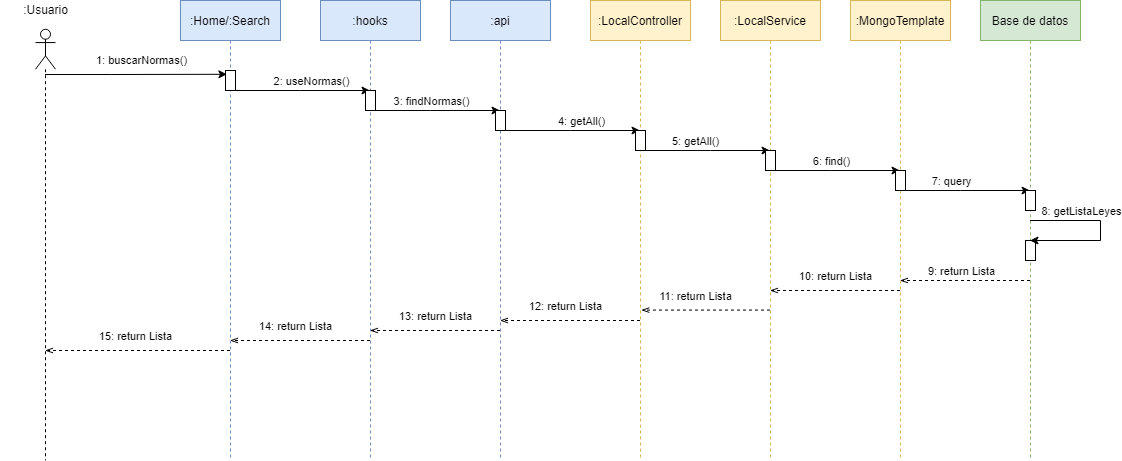
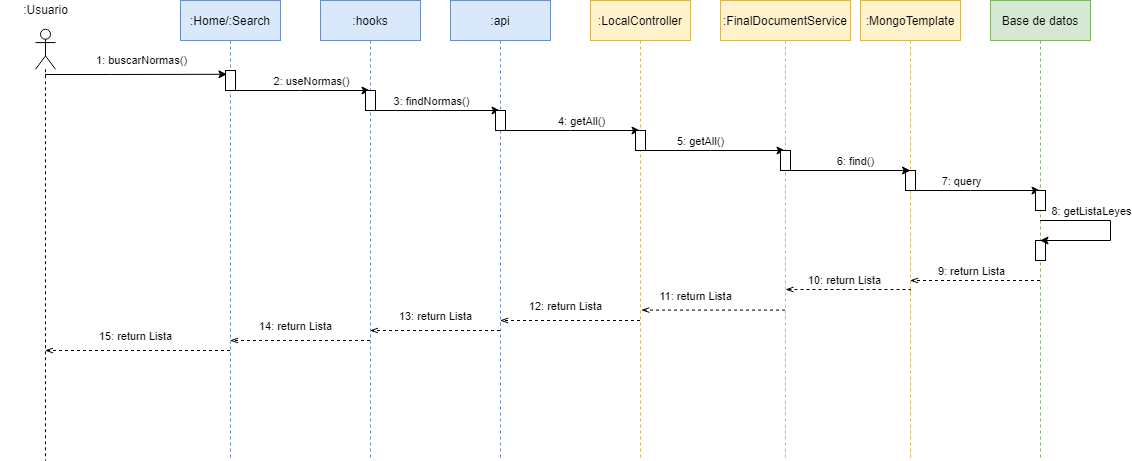
Update document

diff --git a/Documentos ETSE/Memoria TFG/capitulos/3-diseño/4-secuencia/3-editar.tex b/Documentos ETSE/Memoria TFG/capitulos/3-diseño/4-secuencia/3-editar.tex
@@ -3,7 +3,31 @@
 La principal funcionalidad de esta aplicación es la de editar una ley de lex.gal. En esta, un usuario estará visualizando una ley de lex.gal, y procederá a editar sus datos, así como la de las leyes vinculadas. Una vez se ha realizado la edición, el usuario ha de guardar sus cambios, y estos han de ser almacenados en la base de datos.
 
 \begin{figure}[H]
-\centerline{\includegraphics[width=15cm]{figuras/diseño/RegistroUsuario.png}}
+\centerline{\includegraphics[width=14cm]{figuras/diseño/EditarLey.png}}
 \caption{Diagrama de secuencia 03. Editar una ley de lex.gal.}
 \label{enlaceDEditar}
 \end{figure}
+
+\begin{enumerate}
+    \item El usuario pincha entra en la página de edición de una ley, la cual se debe de buscar el método que invoca al hook.
+    \item Este método invoca al hook useFinalDocument() del archivo contenido en hooks().
+    \item Se invoca al método findFinalDocument() de la carpeta api.
+    \item Se hace un llamamiento mediante una solicitud HTTP al servidor. En concreto, la función get() de LocalController, pues se hace un GET.
+    \item Se invoca al servicio get() de FinalDocumentService.
+    \item Se invoca la operación getBySumario() del repositorio FinalDocumentRepository, pues se busca según el sumario.
+    \item Se invoca la operación de recuperar en la base de datos de MongoDB.
+    \item Se recupera la leyes encontrada en la base de datos.
+    \item Se procede a devolver la respuesta al usuario desde este paso, realizando el proceso inverso. El usuario recibirá las ley correspondiente. Se realiza este proceso {\bf hasta la operación 15}.
+    \item El usuario propone cambios que se almacenan en el store de React.
+    \item El usuario añade anotaciones que se almacenan en el store de React.
+    \item El usuario propone cambios en leyes vinculadas que se almacenan en el store de React.
+    \item El usuario guarda los cambios. En función de si valida y publica, o guarda como borrador, tendrá un estado u otro.
+    \item Este método invoca al método put() del hook useFinalDocument().
+    \item Se invoca al método updateFinalDocument() de la carpeta api.
+    \item Se hace un llamamiento mediante una solicitud HTTP al servidor. En concreto, la función put() de LocalController, pues se hace un PUT.
+    \item Se invoca al servicio save() de FinalDocumentService.
+    \item Se invoca la operación save() del repositorio FinalDocumentRepository, para poder modificar una ley.
+    \item Se invoca la operación de modificación en la base de datos de MongoDB.
+    \item Se modifica la ley correspondiente en la base de datos.
+    \item Se procede a devolver la respuesta al usuario desde este paso, realizando el proceso inverso. El usuario recibirá un mensaje de que la operación fue satisfactoria.
+\end{enumerate}

diff --git a/Documentos ETSE/Memoria TFG/capitulos/6-apendices/1-tecnicos/1-despliegue.tex b/Documentos ETSE/Memoria TFG/capitulos/6-apendices/1-tecnicos/1-despliegue.tex
@@ -33,7 +33,7 @@ En cuanto al despliegue de la parte del {\bf cliente}:
 \item Se abrirá una pestaña en su navegador predeterminado. Este proceso puede demorarse unos minutos. En caso de no abrirse automáticamente, puede acceder manualmente accediendo al puerto 3000, {\it \url{http://localhost:3000/}}.
 \end{enumerate}
 
-Por último, cabe indicar que por motivos de seguridad se ha de instalar un usuario a mano en la base de datos. Esto se debe a que en la aplicación solo se permite registrar usuarios cuando existe un administrador. Es por ello que se debe acceder a MongoDB, crear una nueva base de datos denominada ``tfg'', y la colección sea ``users''. Importamos el archivo {\it data.json}, que contiene el usuario inicial.
+Por último, cabe indicar que por motivos de seguridad se ha de introducir un usuario a mano en la base de datos. Esto se debe a que en la aplicación solo se permite registrar usuarios cuando existe un administrador. Es por ello que se debe acceder a MongoDB, crear una nueva base de datos denominada ``tfg'', y la colección sea ``users''. Importamos el archivo {\it data.json} (situado en el directorio raíz del proyecto), que contiene el usuario inicial.
 \\
 
 Cuando sea el caso de iniciar sesión por primera vez, habrá que acceder con el email {\it usuario@usuario.com} y la contraseña {\it Abc123..}.

diff --git a/Documentos ETSE/Memoria TFG/capitulos/3-diseño/4-secuencia/2-buscar.tex b/Documentos ETSE/Memoria TFG/capitulos/3-diseño/4-secuencia/2-buscar.tex
@@ -13,8 +13,8 @@ Se representa la operación de búsqueda de leyes en la base de datos de lex.gal
     \item Este método invoca al hook useNormas() del archivo contenido en hooks().
     \item Se invoca al método findNormas() de la carpeta api.
     \item Se hace un llamamiento mediante una solicitud HTTP al servidor. En concreto, la función getAll() de LocalController, pues se hace un GET.
-    \item Se invoca al servicio getAll() de UserService.
-    \item Se invoca la operación find del template MongoTemplate, pues se busca según un texto, páginas y también tamaño de búsqueda.
+    \item Se invoca al servicio getAll() de FinalDocumentService.
+    \item Se invoca la operación find() del template MongoTemplate, pues se busca según un texto, páginas y también tamaño de búsqueda.
     \item Se invoca la operación de recuperar en la base de datos de MongoDB.
     \item Se recuperan las leyes encontradas en la base de datos.
     \item Se procede a devolver la respuesta al usuario desde este paso, realizando el proceso inverso. El usuario recibirá las leyes encontradas de forma paginada, según el texto de sumario que había escrito.

diff --git a/Documentos ETSE/Memoria TFG/capitulos/6-apendices/1-tecnicos/0-index.tex b/Documentos ETSE/Memoria TFG/capitulos/6-apendices/1-tecnicos/0-index.tex
@@ -3,7 +3,7 @@
 En este apéndice se puede consultar como desplegar la aplicación, tanto el cliente, como el servidor, y la propia base de datos. Cabe recordar que se debe tener acceso a Internet en todo momento para un correcto funcionamiento de la herramienta, puesto que la página de búsquedas localizará los documentos contra la API del DOG \cite{dog}. Otro detalle a tener en cuenta es que la aplicación se ha probado mayoritariamente en un entorno con un sistema Windows 10.
 \\
 
-El enlace al repositorio del código de la aplicación es el siguiente {\it \url{https://nubeusc-my.sharepoint.com/:f:/g/personal/pablo_tarrio_otero_rai_usc_es/EjwZrvY2nR5CmgLZQw15yTkBmnepQMEdqWPqB59usqrTgQ?e=SVQgxU}}.
+El enlace al repositorio del código de la aplicación es el siguiente {\it \url{https://nubeusc-my.sharepoint.com/:f:/g/personal/pablo_tarrio_otero_rai_usc_es/EjwZrvY2nR5CmgLZQw15yTkBmnepQMEdqWPqB59usqrTgQ?e=ULa7zD}}.
 
 \input{capitulos/6-apendices/1-tecnicos/1-despliegue}
 \input{capitulos/6-apendices/1-tecnicos/2-herramientas}

diff --git a/Documentos ETSE/Memoria TFG/capitulos/3-diseño/4-secuencia/1-registro.tex b/Documentos ETSE/Memoria TFG/capitulos/3-diseño/4-secuencia/1-registro.tex
@@ -14,7 +14,7 @@ En cuanto a este diagrama, se representa la operación de registro de un usuario
     \item Se invoca al método createUser() de la carpeta api.
     \item Se hace un llamamiento mediante una solicitud HTTP al servidor. En concreto, la función insert() de UserController, pues se hace un POST.
     \item Se invoca al servicio insert() de UserService.
-    \item Se invoca la operación insert del repositorio UserRepository.
+    \item Se invoca la operación insert() del repositorio UserRepository, para insertar una ley.
     \item Se invoca la operación de guardado en la base de datos de MongoDB.
     \item Se almacena el usuario en la base de datos.
     \item Se procede a devolver la respuesta al usuario desde este paso, realizando el proceso inverso. El usuario recibirá un mensaje de que la operación fue satisfactoria.
